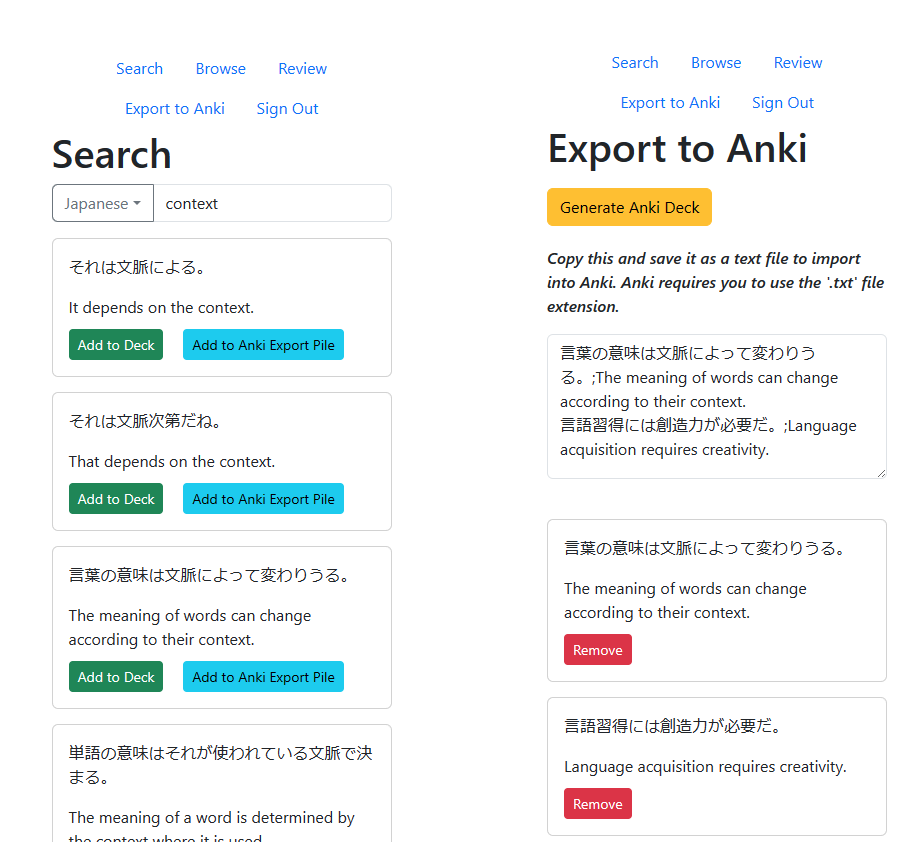
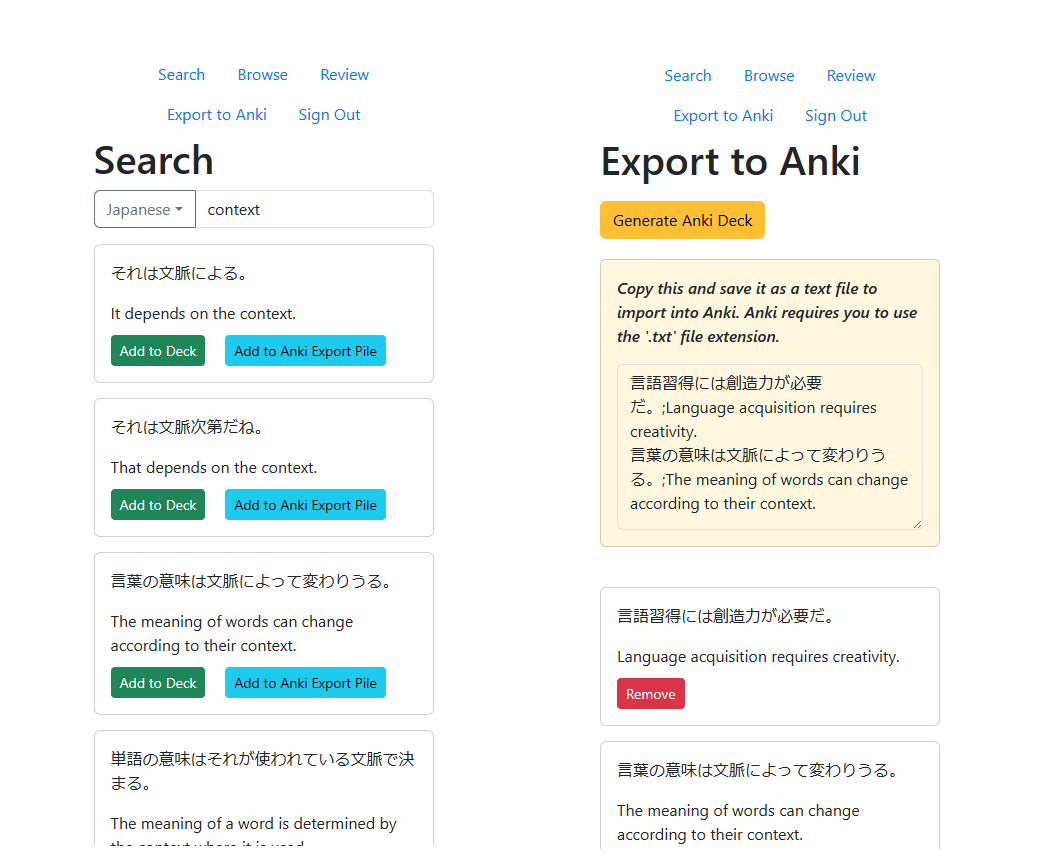
updated aesthetics

diff --git a/src/components/ExportDeck.vue b/src/components/ExportDeck.vue
@@ -7,16 +7,20 @@
     Generate Anki Deck
   </button>
 
-  <p v-if="ankiDeck !== null" class="fst-italic fw-semibold">
-    Copy this and save it as a text file to import into Anki. Anki requires
-    you to use the '.txt' file extension.
-  </p>
-  <div class="input-group" v-if="ankiDeck !== null">
-    <textarea
-      readonly
-      class="form-control" aria-label="With textarea"
-      v-model="ankiDeck">
-    </textarea>
+  <div class="card anki-output" v-if="ankiDeck !== null">
+    <div class="card-body">
+      <p class="fst-italic fw-semibold">
+        Copy this and save it as a text file to import into Anki. Anki requires
+        you to use the '.txt' file extension.
+      </p>
+      <div class="input-group">
+        <textarea
+          readonly
+          class="form-control" aria-label="With textarea"
+          v-model="ankiDeck">
+        </textarea>
+      </div>
+    </div>
   </div>
 
   <BrowseCard
@@ -63,6 +67,10 @@ button {
 textarea {
   width: 340px;
   height: 300px;
+  background-color: cornsilk;
+}
+.anki-output {
   margin-bottom: 40px;
+  background-color: cornsilk;
 }
 </style>
